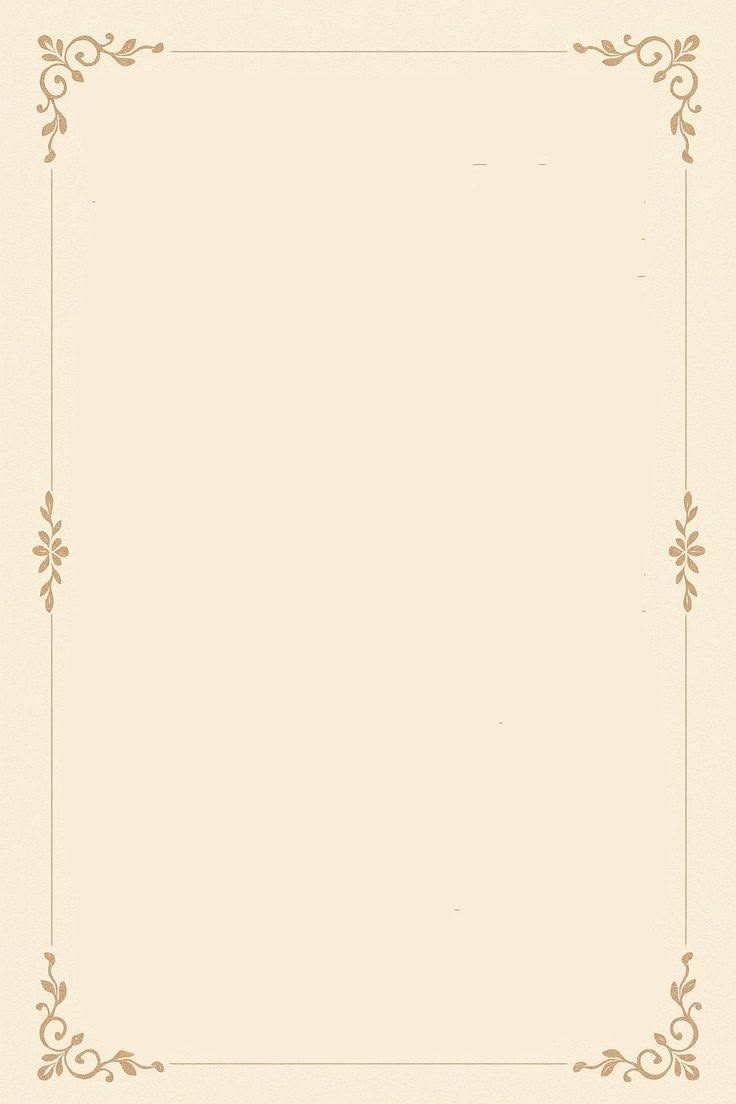
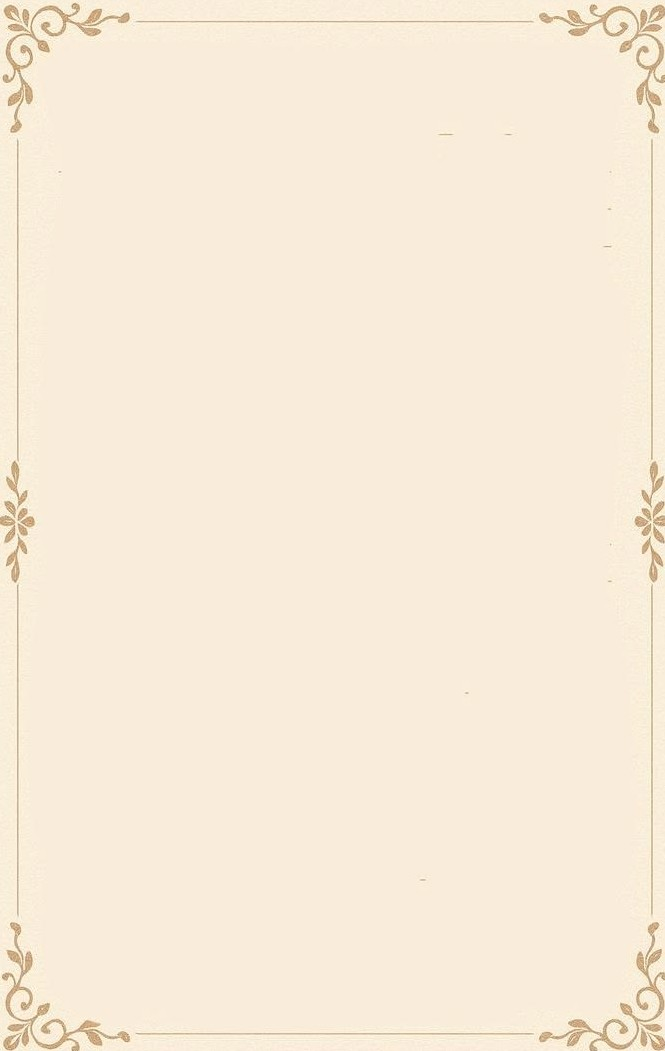
upadte book view detail and upadte chat color in userdash boarad

diff --git a/UserDashboard.java b/UserDashboard.java
@@ -17,7 +17,6 @@ public class UserDashboard extends JFrame {
     private JPanel searchRow;      // holds txtInput + search button - gets moved around
     private JPanel centerWrapper;  // holds searchRow centered, shown before first search
     private JPanel bottomInputBar; // holds searchRow at the bottom, shown after first search
-    private JPanel chatWrapper;    // adds side margins around chatScroll so it lines up with the banner/input bar
     private boolean chatStarted = false;
 
     public UserDashboard(Connection con, String userid) {
@@ -52,7 +51,7 @@ public class UserDashboard extends JFrame {
         // TOP - Welcome banner
         JPanel topBanner = new JPanel(new BorderLayout());
         topBanner.setOpaque(true);
-        topBanner.setBackground(new Color(0, 0, 0, 200)); // was 140 - more opaque so text stays readable over bg image
+        topBanner.setBackground(new Color(0, 0, 0, 140));
         topBanner.setBorder(BorderFactory.createEmptyBorder(15, 20, 15, 20));
 
         JLabel title = new JLabel("Welcome, " + displayName + "!");
@@ -73,21 +72,14 @@ public class UserDashboard extends JFrame {
         chatPanel = new JPanel();
         chatPanel.setLayout(new BoxLayout(chatPanel, BoxLayout.Y_AXIS));
         chatPanel.setOpaque(true);
-        chatPanel.setBackground(new Color(245, 238, 220, 255)); // was 235 alpha - fully opaque so text isn't washed out
-        chatPanel.setBorder(BorderFactory.createEmptyBorder(15, 20, 15, 20)); // matches banner's 20px side padding
+        chatPanel.setBackground(new Color(245, 238, 220, 235));
+        chatPanel.setBorder(BorderFactory.createEmptyBorder(15, 15, 15, 15));
 
         chatScroll = new JScrollPane(chatPanel);
         chatScroll.setBorder(null);
         chatScroll.getVerticalScrollBar().setUnitIncrement(16);
         chatScroll.setOpaque(false);
         chatScroll.getViewport().setOpaque(false);
-
-        // Wrapper adds left/right margins so the chat box lines up with the
-        // banner and bottom bar instead of running edge-to-edge in the frame
-        chatWrapper = new JPanel(new BorderLayout());
-        chatWrapper.setOpaque(false);
-        chatWrapper.setBorder(BorderFactory.createEmptyBorder(0, 15, 0, 15));
-        chatWrapper.add(chatScroll, BorderLayout.CENTER);
 
         toggleChatBtn.addActionListener(e -> {
             boolean nowVisible = !chatScroll.isVisible();
@@ -150,7 +142,7 @@ public class UserDashboard extends JFrame {
         bottomInputBar = new JPanel(new BorderLayout());
         bottomInputBar.setBorder(BorderFactory.createEmptyBorder(12, 15, 15, 15));
         bottomInputBar.setOpaque(true);
-        bottomInputBar.setBackground(new Color(0, 0, 0, 200)); // was 140 - more opaque so text stays readable over bg image
+        bottomInputBar.setBackground(new Color(0, 0, 0, 140));
         // searchRow gets added into this panel later, when the first search happens
 
         btnSend.addActionListener(e -> sendMessage());
@@ -208,7 +200,7 @@ public class UserDashboard extends JFrame {
             searchRow.setMaximumSize(null);
             bottomInputBar.add(searchRow, BorderLayout.CENTER);
 
-            bgPanel.add(chatWrapper, BorderLayout.CENTER);
+            bgPanel.add(chatScroll, BorderLayout.CENTER);
             bgPanel.add(bottomInputBar, BorderLayout.SOUTH);
 
             chatScroll.setVisible(true);
@@ -322,6 +314,7 @@ public class UserDashboard extends JFrame {
             wrapper.add(noResult);
         } else {
             JLabel header = new JLabel("Found " + matchedIds.size() + " book(s) for \"" + escapeHtml(query) + "\":");
+            header.setForeground(new Color(40, 30, 20));
             header.setFont(new Font("Segoe UI", Font.BOLD, 14));
             header.setAlignmentX(Component.LEFT_ALIGNMENT);
             wrapper.add(header);
@@ -341,30 +334,14 @@ public class UserDashboard extends JFrame {
                         bookRow.setOpaque(false);
                         bookRow.setAlignmentX(Component.LEFT_ALIGNMENT);
                         bookRow.setMaximumSize(new Dimension(420, 35));
-                        bookRow.setToolTipText("Double-click to view book cover & details");
 
                         JLabel bookLabel = new JLabel("[ID " + id + "] " + bookTitle + " \u2014 " + author);
+                        bookLabel.setForeground(new Color(20, 20, 20));
                         bookLabel.setFont(new Font("Segoe UI", Font.PLAIN, 13));
 
                         JButton viewBtn = new JButton("View");
                         viewBtn.setFont(new Font("Segoe UI", Font.PLAIN, 11));
                         viewBtn.addActionListener(e -> new BookDetailView(con, id).setVisible(true));
-
-                        // Double-click anywhere on the row also opens the book detail view
-                        bookRow.addMouseListener(new java.awt.event.MouseAdapter() {
-                            public void mouseClicked(java.awt.event.MouseEvent e) {
-                                if (e.getClickCount() == 2) {
-                                    new BookDetailView(con, id).setVisible(true);
-                                }
-                            }
-                        });
-                        bookLabel.addMouseListener(new java.awt.event.MouseAdapter() {
-                            public void mouseClicked(java.awt.event.MouseEvent e) {
-                                if (e.getClickCount() == 2) {
-                                    new BookDetailView(con, id).setVisible(true);
-                                }
-                            }
-                        });
 
                         bookRow.add(bookLabel, BorderLayout.CENTER);
                         bookRow.add(viewBtn, BorderLayout.EAST);

diff --git a/BookDetailView.java b/BookDetailView.java
@@ -39,7 +39,7 @@ public class BookDetailView extends JDialog {
         setSize(500, 550);
         setLocationRelativeTo(null);
         setModal(true);
-setResizable(false);
+
         JPanel main = new JPanel(new BorderLayout(10, 10));
         main.setBorder(BorderFactory.createEmptyBorder(15, 15, 15, 15));
         setContentPane(main);
@@ -96,6 +96,7 @@ setResizable(false);
                 }
 
                 StringBuilder sb = new StringBuilder();
+                sb.append("Book ID: ").append(bookId).append("\n");
                 sb.append("Title: ").append(title).append("\n");
                 sb.append("Author: ").append(author).append("\n");
                 sb.append("Publisher: ").append(publisher).append("\n");